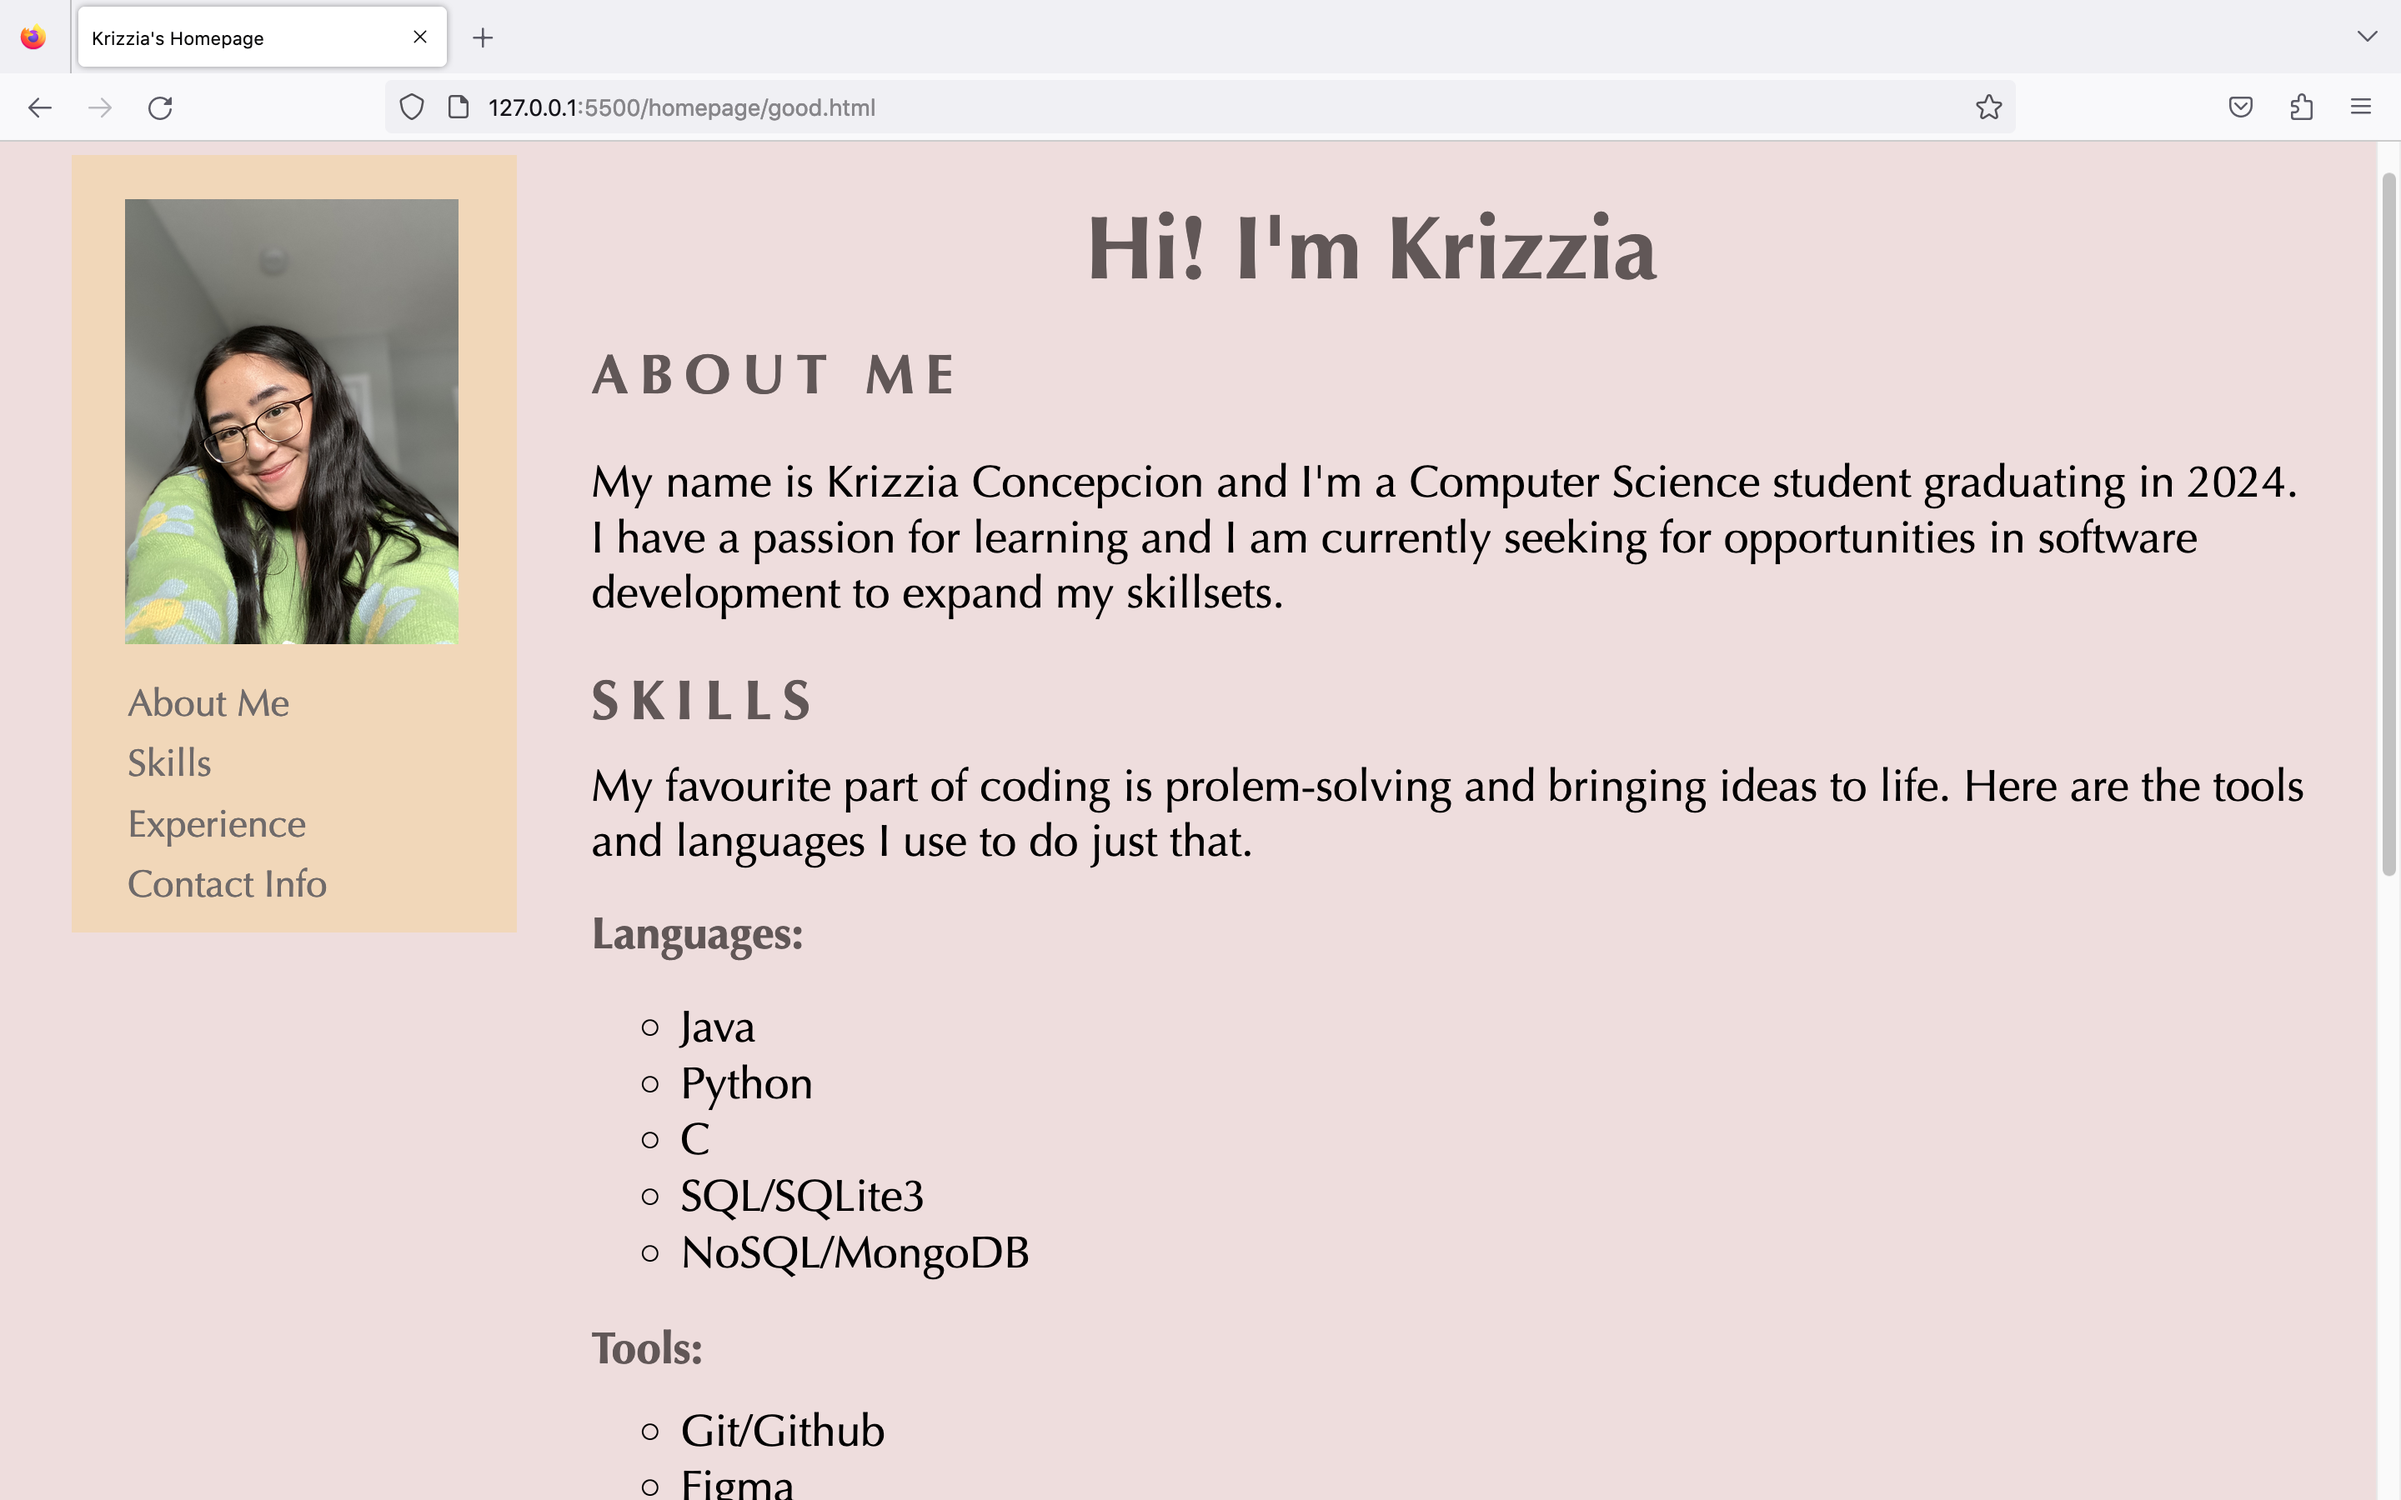
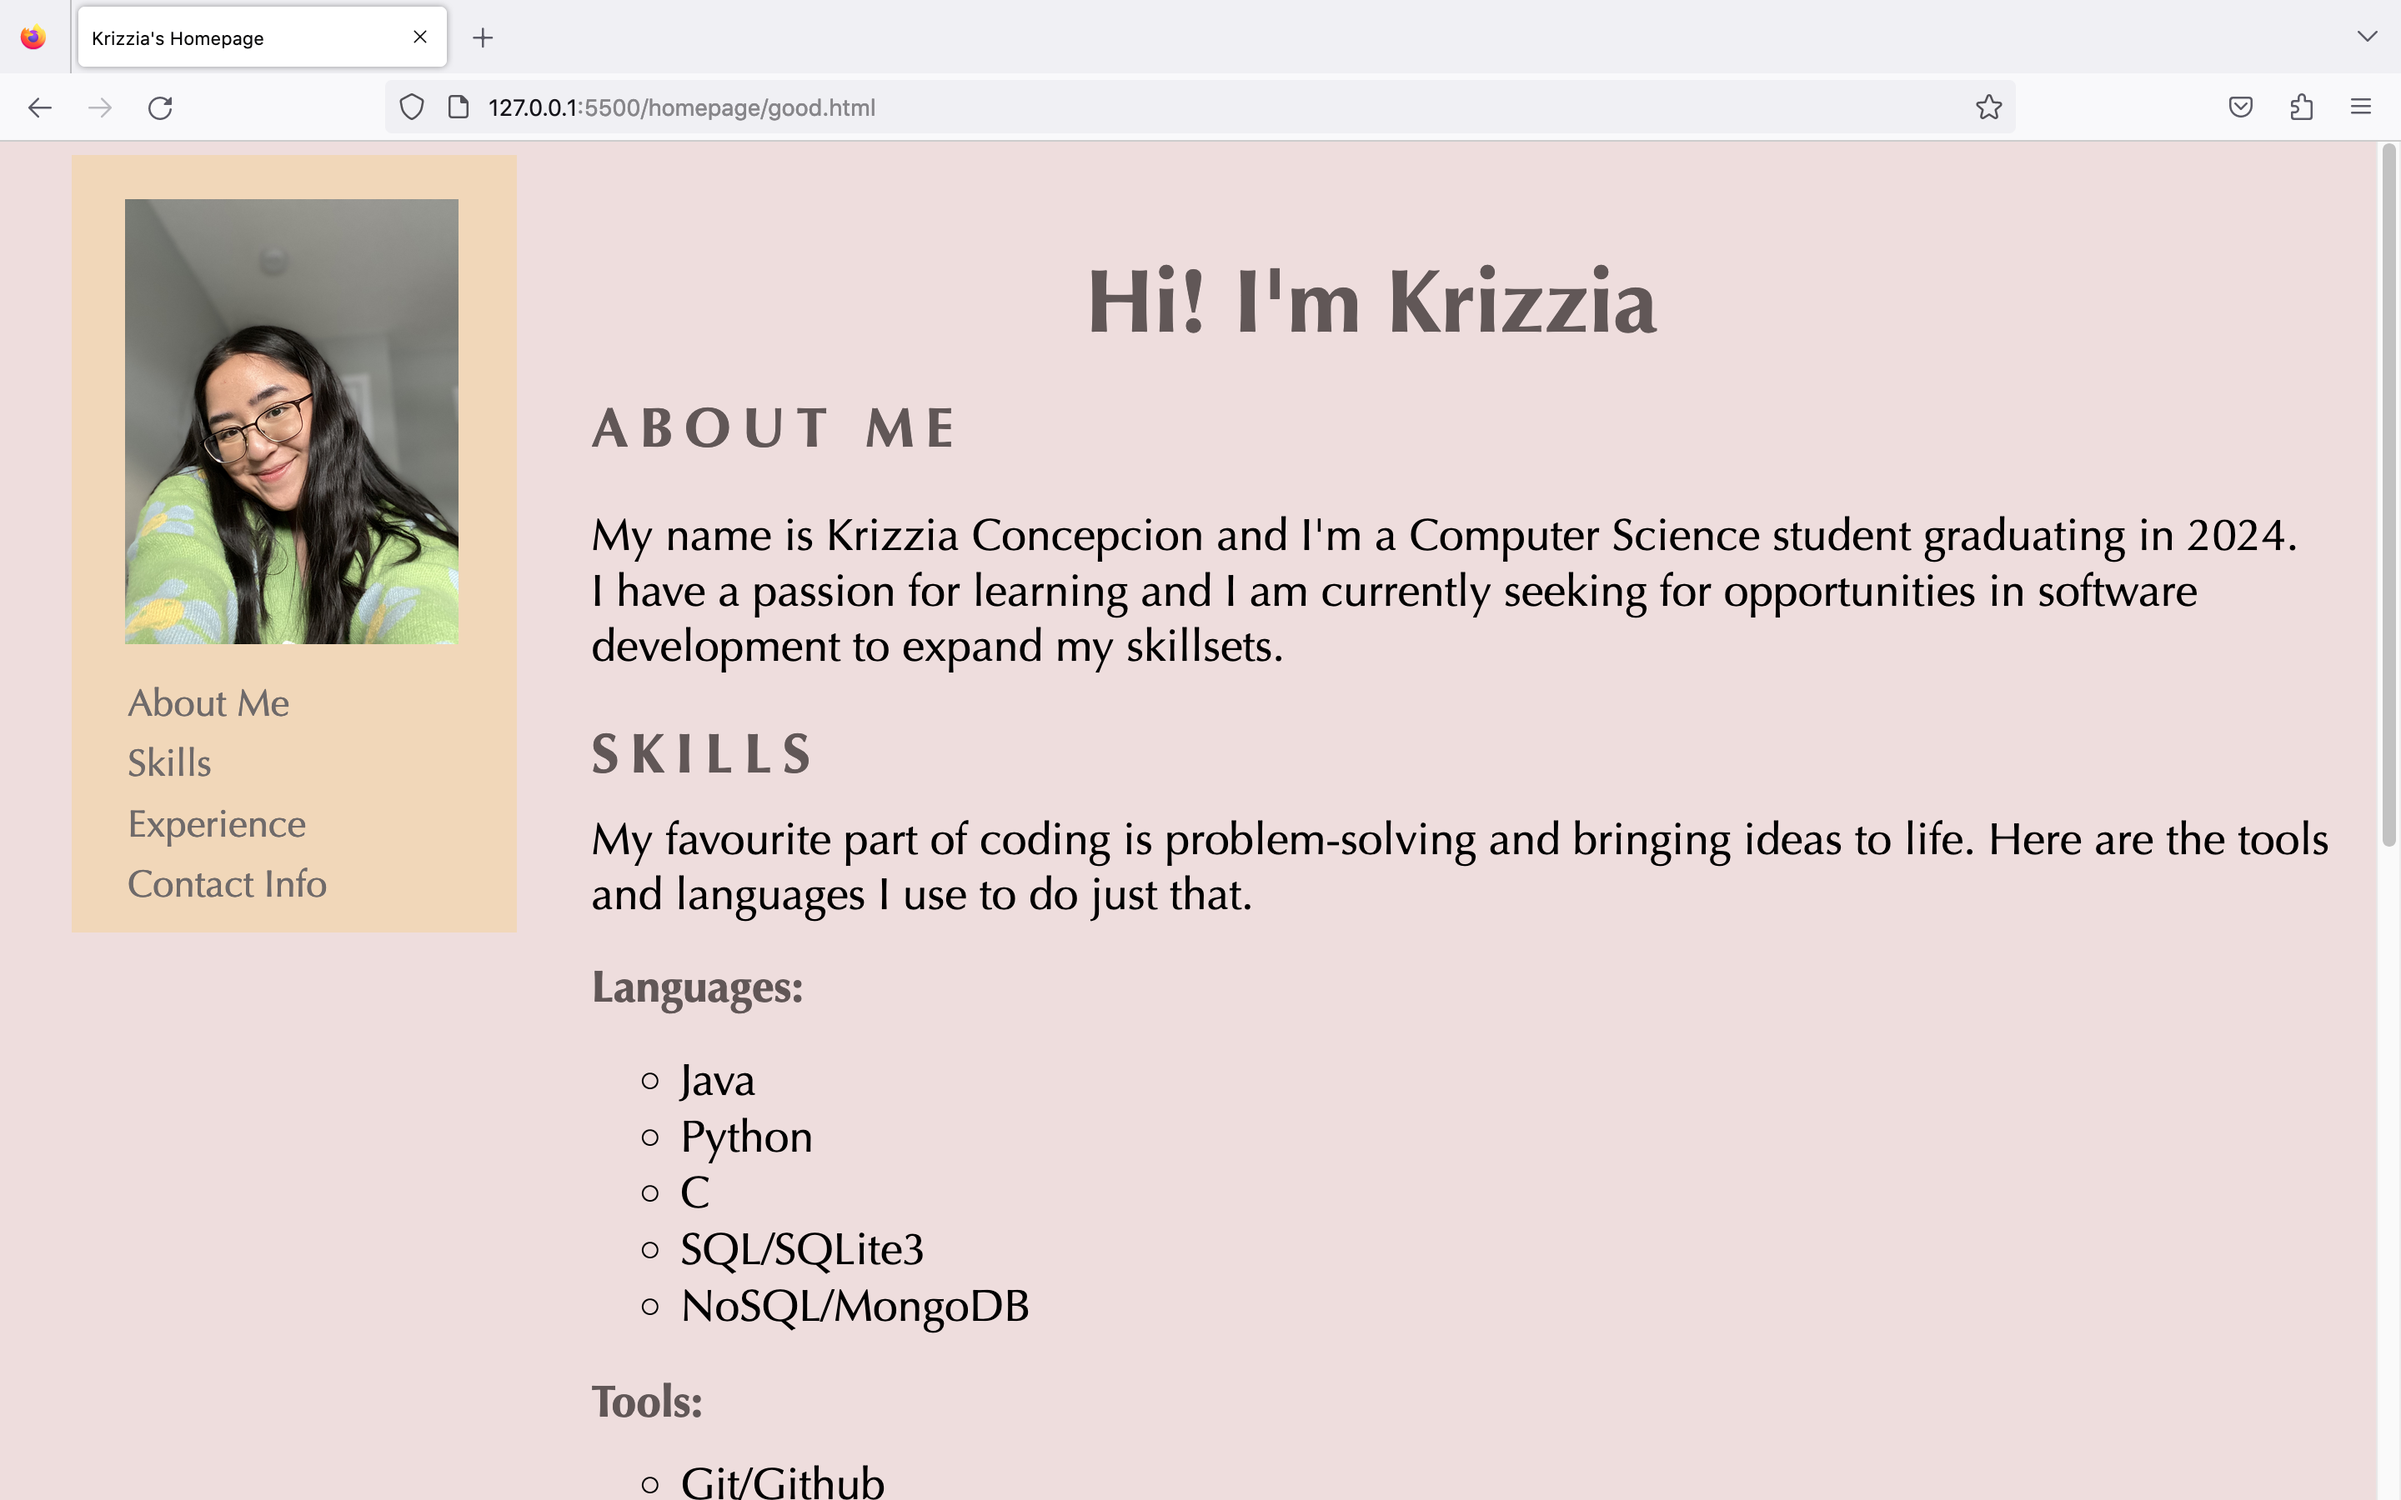
made bad.html exactly same as good.html, adjusted bad.css, updated screenshots and readme

Changed region(s): [[0.25, 0.2178, 1.0, 1.0], [0.4375, 0.1244, 0.6875, 0.2178], [0.9688, 0.0933, 1.0, 0.1244]]

diff --git a/homepage/bad.html b/homepage/bad.html
@@ -7,93 +7,113 @@
 </title>
 </head>
 
-<h1 class = "mainTitle"> Hi! I'm Krizzia</h1>
 
-<ul class = "nav">
-    <div class = "navlist">
-        <li><a href = "#about">About Me </a></li>
-        <li><a href = "#backend-skills">Skills</a></li>
-        <li><a href = "#history">Experience </a></li>
-        <li><a href = "#contact-info">Contact Info</a></li>
+<div class = "topbarContainer">
+    <div class = "topbar">
+        <div class = "imgMe">
+            <img src = "images/A3_image.jpg" alt = "Krizzia's picture">
+        </div>
+        <div class= "navlist">
+            <a href = "#about">About Me<br> </a>
+            <a href = "#backend-skills">Skills<br></a>
+            <a href = "#history">Experience<br></a>
+            <a href = "#contact-info">Contact Info<br></a>
+        </div>
     </div>
-</ul>
-<br>
+    <br>
+</div>
 
 
 <body>
+    <div class = "everything">
+
+        <h1 class = "mainTitle"> Hi! I'm Krizzia</h1>
+        <div class = "aboutMe">
+                <div class = "aboutMeText">
+                    <h2 id = "about"> About me</h2>
+                    <h3>My name is Krizzia Concepcion and I'm a Computer Science student graduating in 2024.<br>I have a passion for learning and I am currently seeking for 
+                    opportunities in software development to expand my skillsets. </h3>
+                </div>   
+            </div>
+            
+
+            <div class = "skills">
+                <h2 id="backend-skills">Skills</h2>
+                <div class = "backend">
+                    <h3>My favourite part of coding is problem-solving and bringing ideas to life. Here are the tools and languages I use to do just that.</h3>
+                    <div class = "sub-backend">
+                        <h4>Languages:</h4>
+                        <div class = "backend-lang">
+                            <h5>
+                                <ul>
+                                <li>Java</li>    
+                                <li> Python</li>
+                                <li>C</li>
+                                <li>SQL/SQLite3</li>
+                                <li> NoSQL/MongoDB</li>    
+                            </h5>
+                        </div>
+                        <div class= "tools">
+                            <h4>Tools:</h4>
+                            <div class = "backend-tools">
+                                <h5>
+                                    <ul>
+                                    <li>Git/Github</li>   
+                                    <li>Figma</li>
+                                    <li>Android Studio</li>
+                                    <li>Agile and Scrum Methodologies </li>
+                                    </ul>
+                                
+                                </h5>
+                            
+                            </div>
+
+                        </div>
+                        
+                    
+                    </div>      
+            </div>
+
+            <div class = "experience">
+                <h2 id = "history">Professional History</h2>
+                <div class = "job-experience">
+                    <div class = "gnwt">
+                        <h4>Summer Student - Government of Northwest Territories</h4>
+                            <div class = "gnwt-points">
+                                <h5>
+                                    <ul>
+                                        <li>Participated in flood recovery projects in local farms </li>
+                                        <li>Collected and tested soil samples to study the impact of flooding in agricultural areas.</li>
+                                        <li>Analyzed data from survey results to determine scope of improvement for funding programs.</li>
+                                    
+                                    </ul>
+                                    
+                                </h5>
+                            
+                            </div>
+                    </div>
+                </div>
+            </div>
+
+            <div class = "contact">
+                <h2 id = "contact-info"> Connect with me!</h2>
+                <div class = "container-contact">
+                    <h3> If you are looking for a highly motivated software developer, feel free to contact me below.</h3>
+                    <br>
+                    <div class ="info">
+                        <h5>Email: krizzia@ualberta.ca</h5>
+                        <h5>Phone: 123-456-7890</h5>
+                    </div>
+
+                </div>
+                
+
+            </div>
 
 
-    <div class = "aboutMe">
-        <div class = "imgMe">
-             <img src = "images/A3_image.jpg" alt = "Krizzia's picture">
-        </div>
-        <div class = "aboutMeText">
-            <h2 id = "about"> About me</h2>
-            <p>My name is Krizzia Concepcion and I'm a Computer Science student graduating in 2024. I have a passion for learning and I am currently seeking for 
-            opportunities in software development to expand my skillsets. </p>
-        </div>
-         
+
     </div>
     
-
-    <div class = "skills">
-        <h2 id="backend-skills">Skills</h2>
-        <div class = "backend">
-            <p>My favourite part of coding is problem-solving and bringing ideas to life. Here are the tools and languages I use to do just that. </p>
-            <div class = "sub-backend">
-                <h4>Languages:</h4>
-                <div class = "backend-lang">
-                    <h5>
-                        Java <br>
-                        Python <br>
-                        C<br>
-                        SQL/SQLite3<br>
-                        NoSQL/MongoDB<br>
-
-                    </h5>
-                   
-                </div>
-                <div class = "backend-tools">
-                    <h4>Tools:</h4>
-                    <h5>
-                        Git/Github<br>
-                        Figma<br>
-                        Android Studio<br>
-                        Agile and Scrum Methodologies
-                    </h5>
-                 
-                </div>
-               
-            </div>      
-    </div>
-
-    <div class = "experience">
-        <h2 id = "history">Professional History</h2>
-        <div class = "job-experience">
-            <div class = "gnwt">
-                <h4>Summer Student - Government of Northwest Territories</h4>
-                    <div class = "gnwt-points">
-                        <h5>
-                            <ul>Participated in flood recovery projects in local farms </ul>
-                            <ul>Collected and tested soil samples to study the impact of flooding in agricultural areas.</ul>
-                            <ul>Analyzed data from survey results to determine scope of improvement for funding programs.</ul>
-                        
-                        </h5>
-                       
-                    </div>
-            </div>
-    </div>
-
-    <div class = "contact">
-        <h2 id = "contact-info"> Connect with me!</h2>
-        <p> If you are looking for a highly motivated software developer, feel free to contact me below.</p>
-        <div class ="info">
-            <h5>Email: krizzia@ualberta.ca</h5>
-            <h5>Phone: 123-456-7890</h5>
-        </div>
-        
-
-    </div>
 
 </body>
 

diff --git a/homepage/bad.css b/homepage/bad.css
@@ -10,6 +10,7 @@ h1{
     text-align: center;
     color:  #f10081;
     text-shadow: 2px 12px 1px rgb(51, 44, 255);
+    margin-left: 300pt;
     font-size: 550%;
 }
 h2{
@@ -17,7 +18,7 @@ h2{
     color: rgb(234, 255, 42);
 }
 h3{
-    color:red;
+    color:rgb(0, 255, 26);
 }
 h4{
     font-family:cursive,"Comic Sans MS", "Comic Sans";
@@ -28,12 +29,7 @@ h5{
     font-family:cursive,"Comic Sans MS", "Comic Sans";
     color:rgb(140, 0, 255);
 }
-.aboutMe{
-    display:grid;
-    align-items: center; 
-    grid-template-columns: 1fr 2fr 1fr;
-    column-gap: 25pt;
-}
+
 .aboutMeText{
     font-size: 15pt;
 }
@@ -57,30 +53,27 @@ img:hover{
     transition: all 1s;
   
 }
+
+.topbar{
+    background-color: rgb(18, 253, 14);
+    height: 350pt;
+    width: 300pt;
+    position: absolute;    
+}
+.topbar a{
+  padding: 3pt 25pt;
+  text-decoration: none;
+  font-size: 17pt;
+  color: #ffe552;
+  display: block;
+
+}
+.topbar a:hover{
+    background-color: #f10081;
+}
 .sub-backend{
     padding-left: 2%;
 }
 
-ul.nav{
-    background-color: #000000;
-    list-style-type: none;
-    margin: 0;
-    padding: 0;
-    overflow: hidden;
-    background-color: #78ff5a;
-}
 
-li{
-    display: inline;
-    float:left;
-    display: block;
-    color: white;
-    text-align: center;
-    padding: 14px 16px;
-    text-decoration: none;
-}
-
-li:hover{
-    background-color: #f10081;
-}
 

diff --git a/homepage/good.html b/homepage/good.html
@@ -40,7 +40,7 @@
             <div class = "skills">
                 <h2 id="backend-skills">Skills</h2>
                 <div class = "backend">
-                    <h3>My favourite part of coding is prolem-solving and bringing ideas to life. Here are the tools and languages I use to do just that.</h3>
+                    <h3>My favourite part of coding is problem-solving and bringing ideas to life. Here are the tools and languages I use to do just that.</h3>
                     <div class = "sub-backend">
                         <h4>Languages:</h4>
                         <div class = "backend-lang">

diff --git a/README.md b/README.md
@@ -10,6 +10,9 @@ Resources Used (Part 2):
 - Link (Author not specified): https://www.w3schools.com/howto/howto_css_sidebar_icons.asp
 - Link (Author specified): https://www.w3schools.com/howto/howto_css_navbar_image.asp
 - Link (License: CC-BY-4.0, Author not specified): https://www.30secondsofcode.org/css/s/image-hover-rotate
+- Link (License: CC BY-SA 4.0 ):https://stackoverflow.com/questions/67157645/text-shows-up-behind-a-sidebar-on-my-html-page
+    - Asked by (on April 19,2021):https://stackoverflow.com/users/12683014/alex-bidenia
+    - Response by (April 19,2021): https://stackoverflow.com/users/6014083/sujan-sundareswaran
 
 
 You will skin 3 project gutenberg stories with custom CSS.
